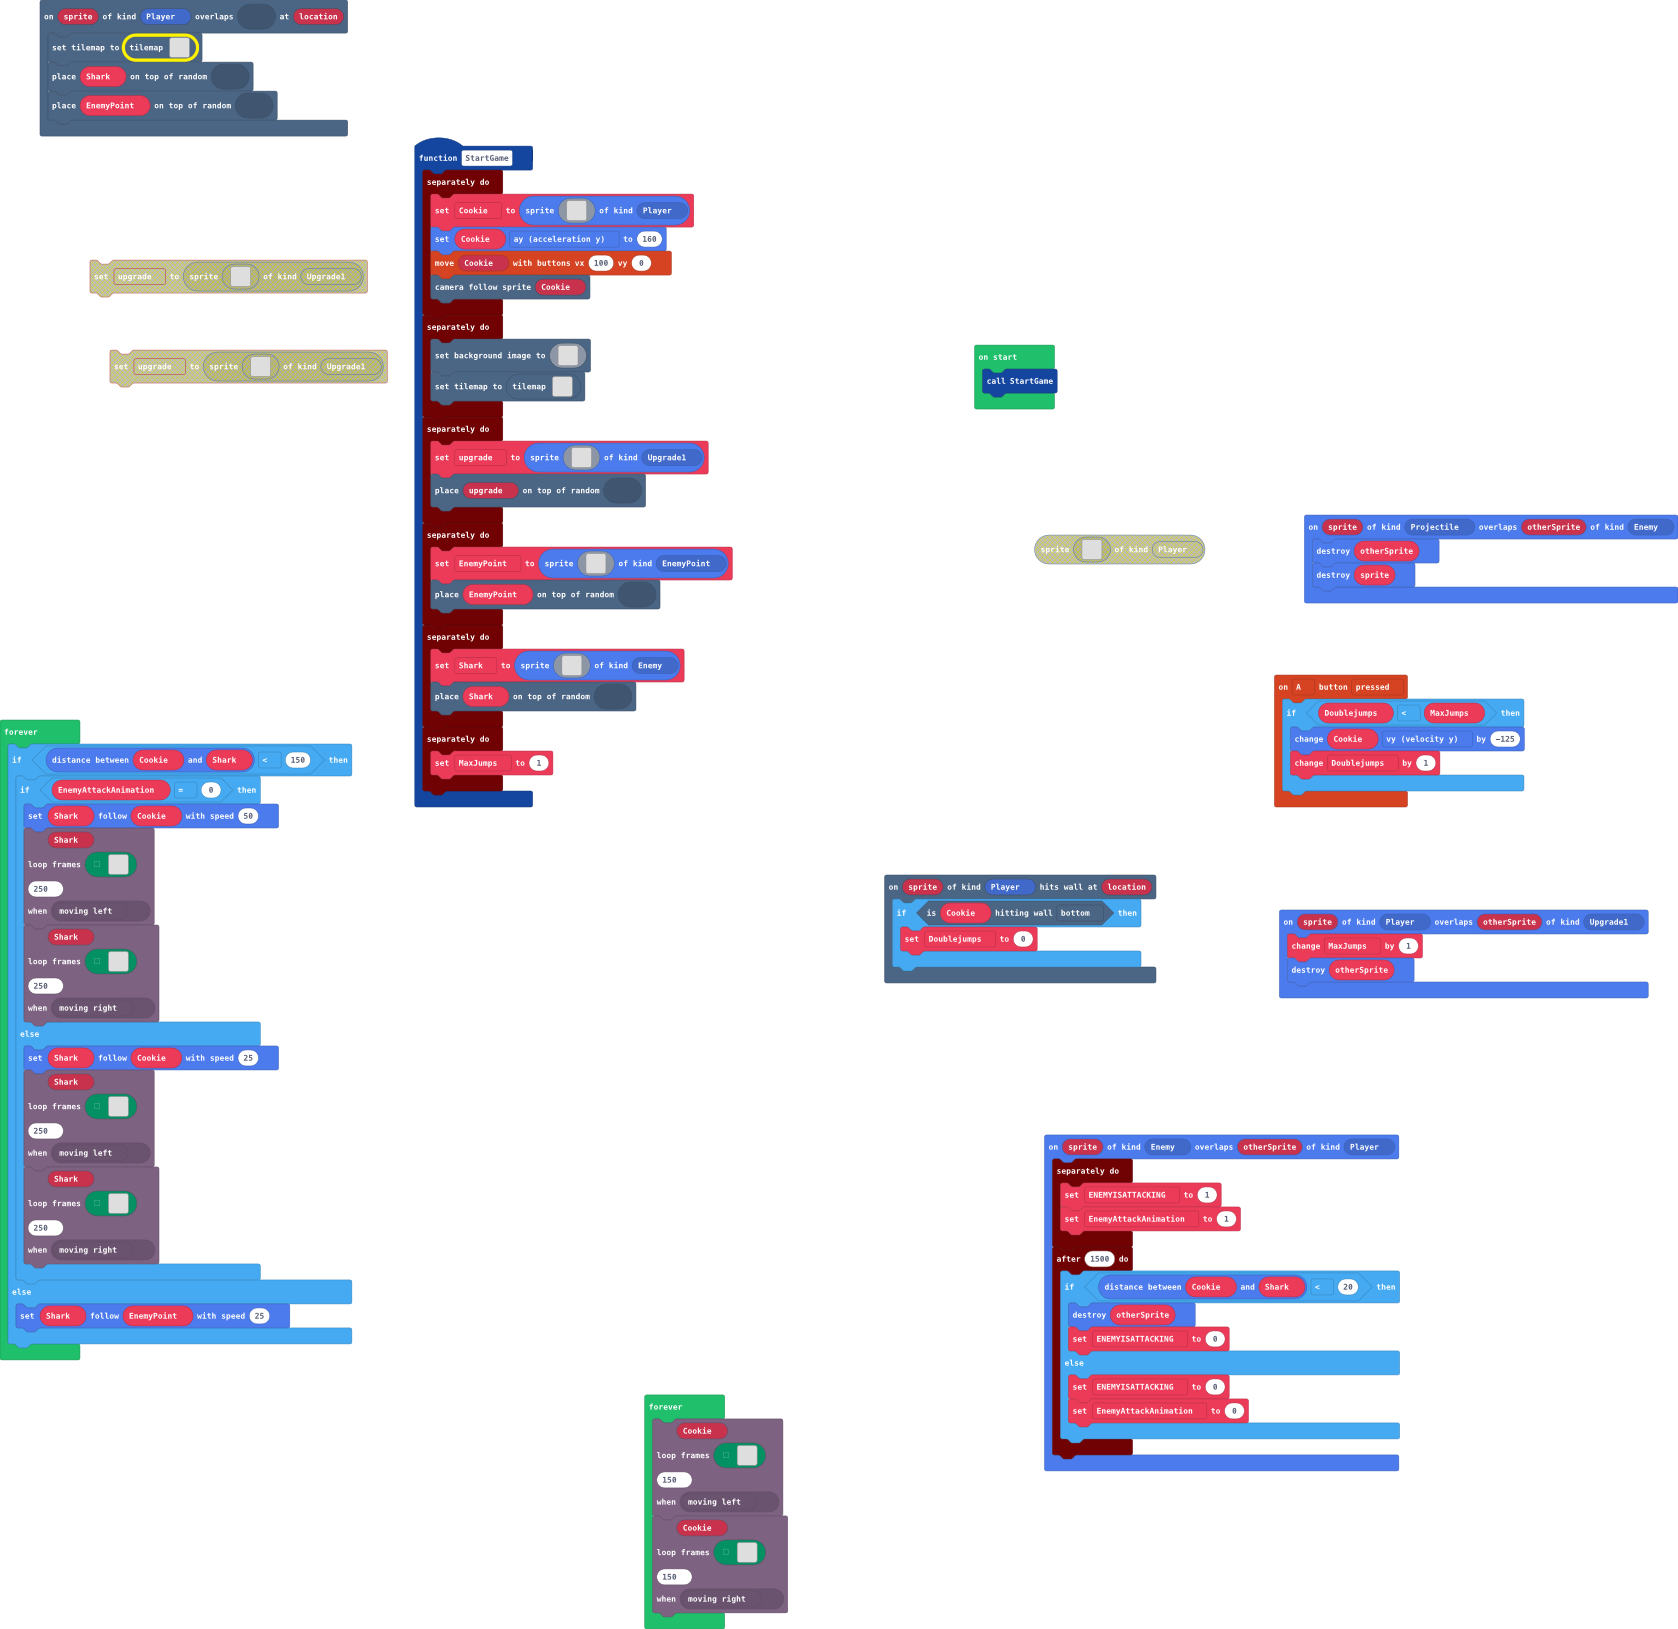
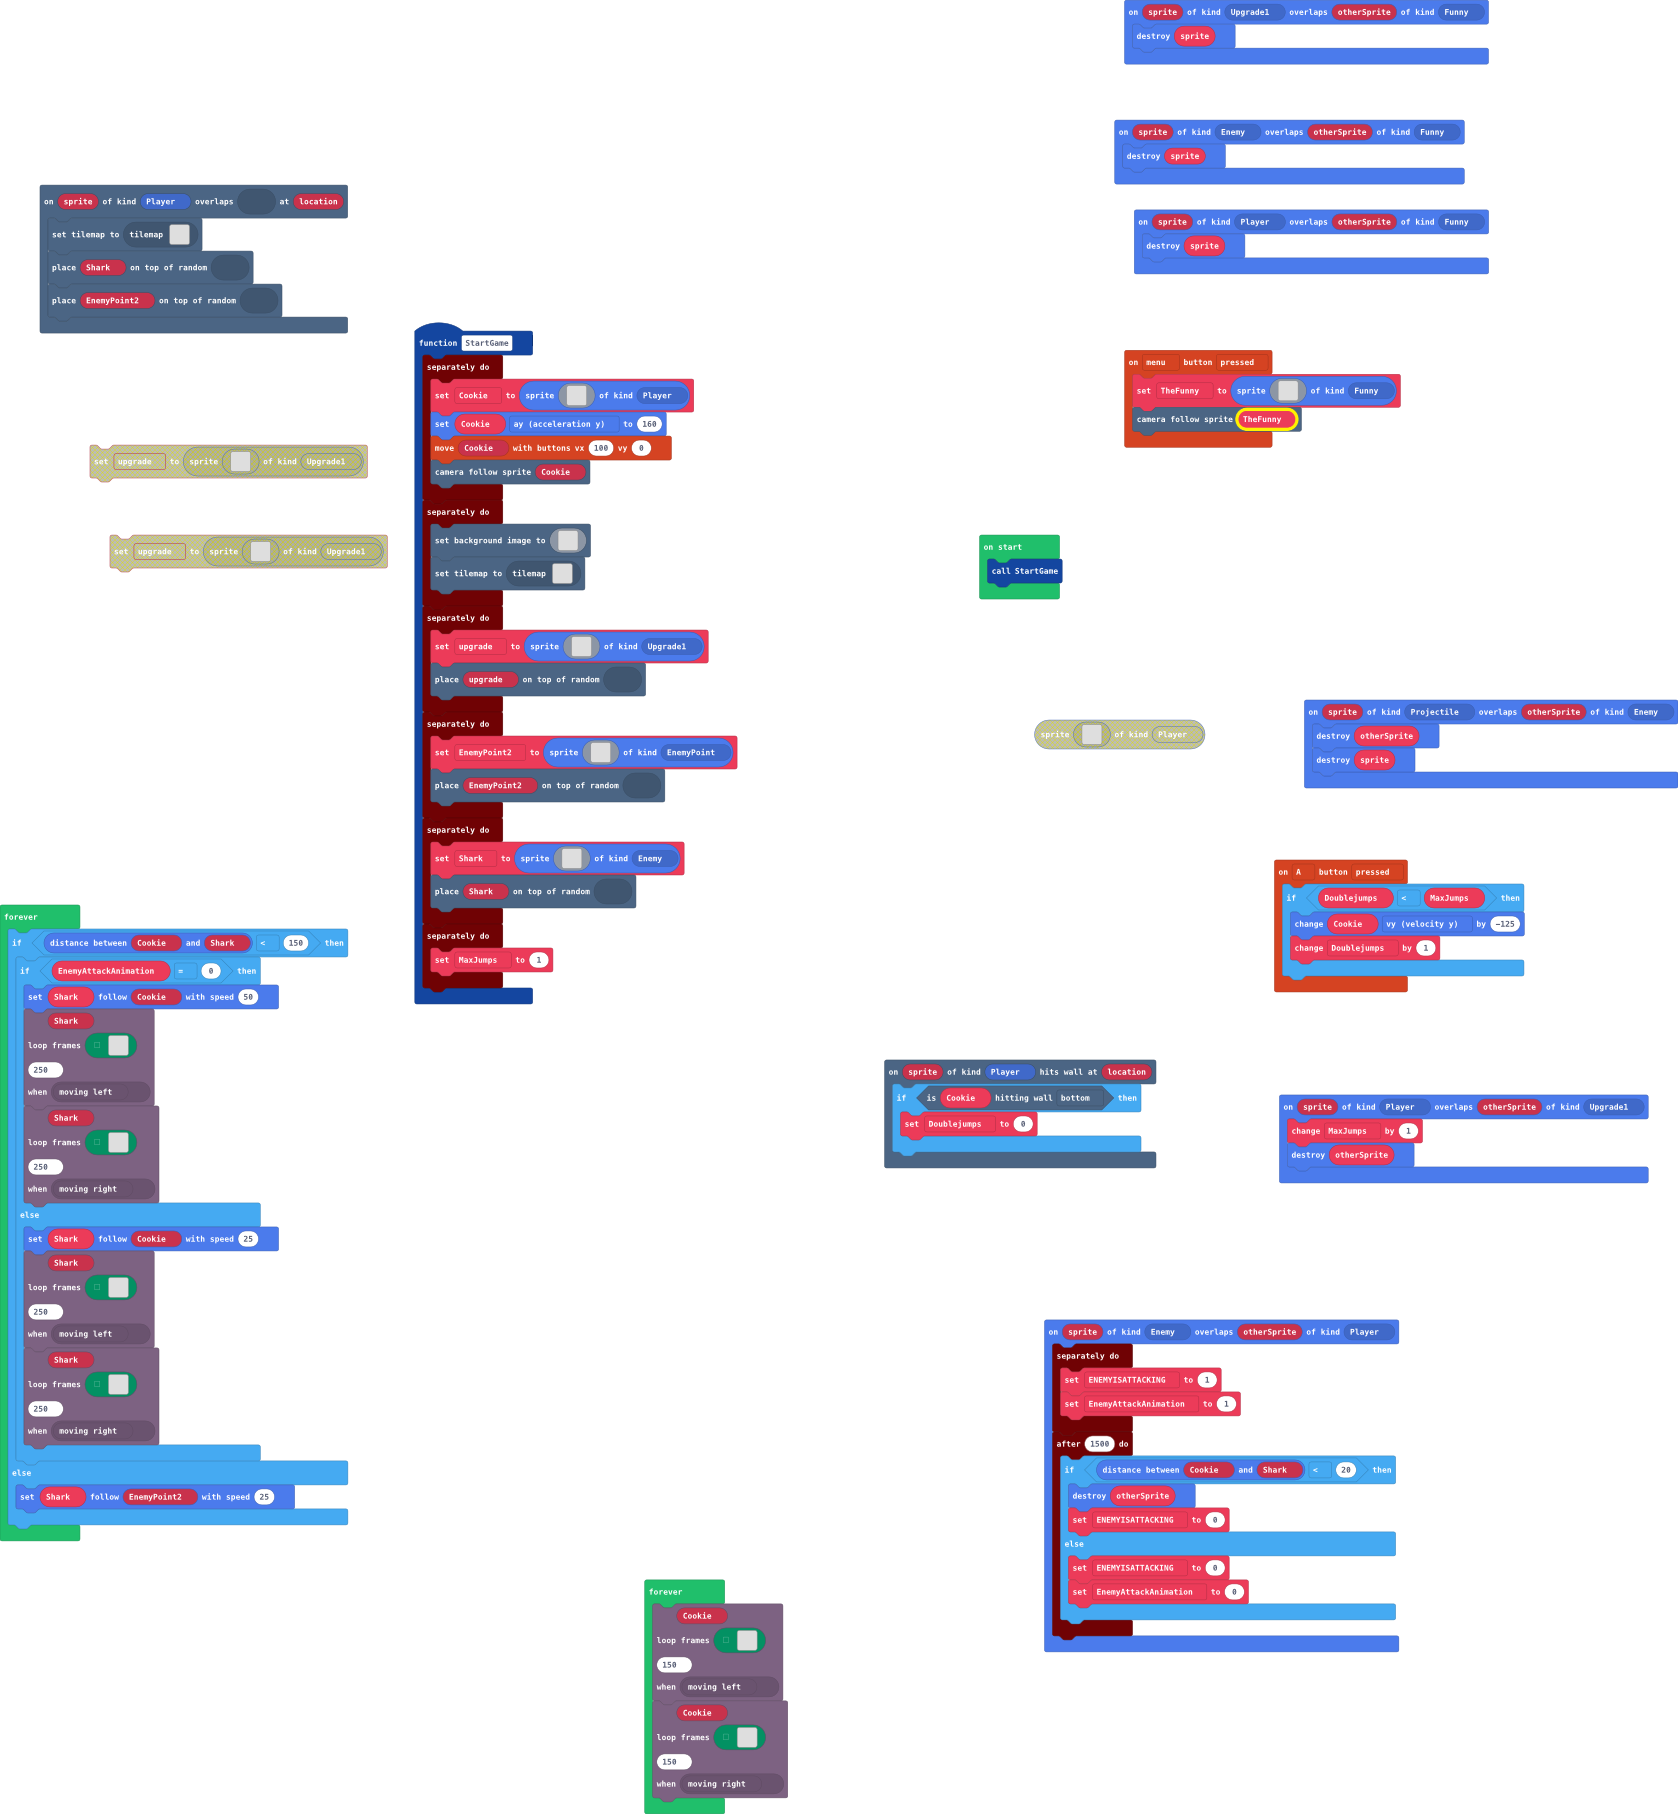
Update main.blocks, main.ts

diff --git a/main.ts b/main.ts
@@ -1,17 +1,27 @@
 namespace SpriteKind {
     export const Upgrade1 = SpriteKind.create()
     export const EnemyPoint = SpriteKind.create()
+    export const Funny = SpriteKind.create()
 }
+sprites.onOverlap(SpriteKind.Enemy, SpriteKind.Funny, function (sprite, otherSprite) {
+    sprites.destroy(sprite)
+})
 scene.onHitWall(SpriteKind.Player, function (sprite, location) {
     if (Cookie.isHittingTile(CollisionDirection.Bottom)) {
         Doublejumps = 0
     }
+})
+sprites.onOverlap(SpriteKind.Upgrade1, SpriteKind.Funny, function (sprite, otherSprite) {
+    sprites.destroy(sprite)
 })
 controller.A.onEvent(ControllerButtonEvent.Pressed, function () {
     if (Doublejumps < MaxJumps) {
         Cookie.vy += -125
         Doublejumps += 1
     }
+})
+sprites.onOverlap(SpriteKind.Player, SpriteKind.Funny, function (sprite, otherSprite) {
+    sprites.destroy(sprite)
 })
 sprites.onOverlap(SpriteKind.Player, SpriteKind.Upgrade1, function (sprite, otherSprite) {
     MaxJumps += 1
@@ -35,7 +45,132 @@ sprites.onOverlap(SpriteKind.Enemy, SpriteKind.Player, function (sprite, otherSp
 scene.onOverlapTile(SpriteKind.Player, assets.tile`myTile8`, function (sprite, location) {
     tiles.setCurrentTilemap(tilemap`level4`)
     tiles.placeOnRandomTile(Shark, assets.tile`myTile`)
-    tiles.placeOnRandomTile(EnemyPoint, assets.tile`myTile`)
+    tiles.placeOnRandomTile(EnemyPoint2, assets.tile`myTile`)
+})
+controller.menu.onEvent(ControllerButtonEvent.Pressed, function () {
+    TheFunny = sprites.create(img`
+        ffffffffffffffffffffffffffffffffffffffffffffffffffffffffffffffffffffffffffffffffffffffffffffffffffffffffffffffffffffffffffffffffffffffffffffffffffffffffffffffff
+        ffffffffffffffffffffffffffffffffffffffffffffffffffffffffffffffffffffffffffffffffffffffffffffffffffffffffffffffffffffffffffffffffffffffffffffffffffffffffffffffff
+        ffffffffffffffffffffffffffffffffffffffffffffffffffffffffffffceeeeeeeeeeceeeeeeeeeeeeccffffffffffffffffffffffffffffffffffffffffffffffffffffffffffffffffffffffffff
[115 lines of base64/hex data omitted]
+        fffffffffffffffffffffffffffffffffffffffffffffffffffffffffffffffffffffffffffffffffffffffffffffffffffffcccffffffffffffffffffffffffffffffffffffffffffffffffffffffff
+        ffffffffffffffffffffffffffffffffffffffffffffffffffffffffffffffffffffffffffffffffffffffffffffffffffffffffffffffffffffffffffffffffffffffffffffffffffffffffffffffff
+        `, SpriteKind.Funny)
+    scene.cameraFollowSprite(TheFunny)
 })
 function StartGame () {
     timer.background(function () {
@@ -207,7 +342,7 @@ function StartGame () {
         tiles.placeOnRandomTile(upgrade, assets.tile`myTile0`)
     })
     timer.background(function () {
-        EnemyPoint = sprites.create(img`
+        EnemyPoint2 = sprites.create(img`
             . . . . . . . . . . . . . . . . 
             . . . . . . . . . . . . . . . . 
             . . . . . . . . . . . . . . . . 
@@ -225,7 +360,7 @@ function StartGame () {
             . . . . . . . . . . . . . . . . 
             . . . . . . . . . . . . . . . . 
             `, SpriteKind.EnemyPoint)
-        tiles.placeOnRandomTile(EnemyPoint, assets.tile`myTile`)
+        tiles.placeOnRandomTile(EnemyPoint2, assets.tile`myTile`)
     })
     timer.background(function () {
         Shark = sprites.create(img`
@@ -257,7 +392,8 @@ sprites.onOverlap(SpriteKind.Projectile, SpriteKind.Enemy, function (sprite, oth
     sprites.destroy(sprite)
 })
 let upgrade: Sprite = null
-let EnemyPoint: Sprite = null
+let TheFunny: Sprite = null
+let EnemyPoint2: Sprite = null
 let Shark: Sprite = null
 let EnemyAttackAnimation = 0
 let ENEMYISATTACKING = 0
@@ -671,7 +807,7 @@ forever(function () {
             )
         }
     } else {
-        Shark.follow(EnemyPoint, 25)
+        Shark.follow(EnemyPoint2, 25)
     }
 })
 forever(function () {
